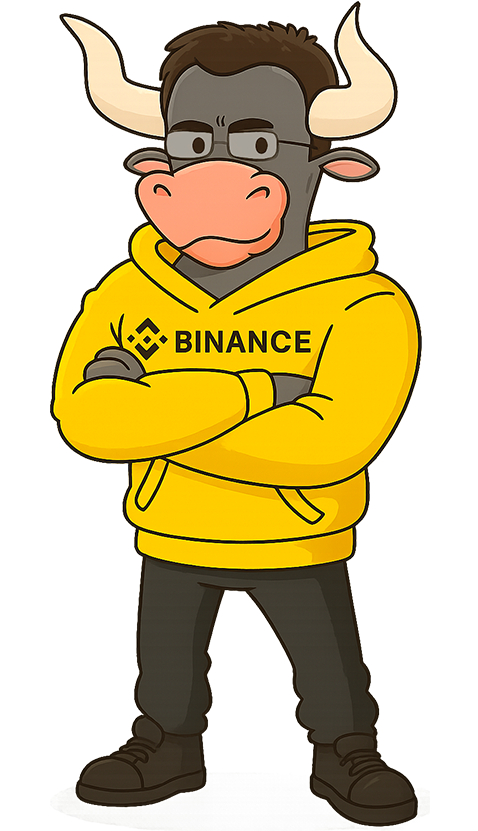
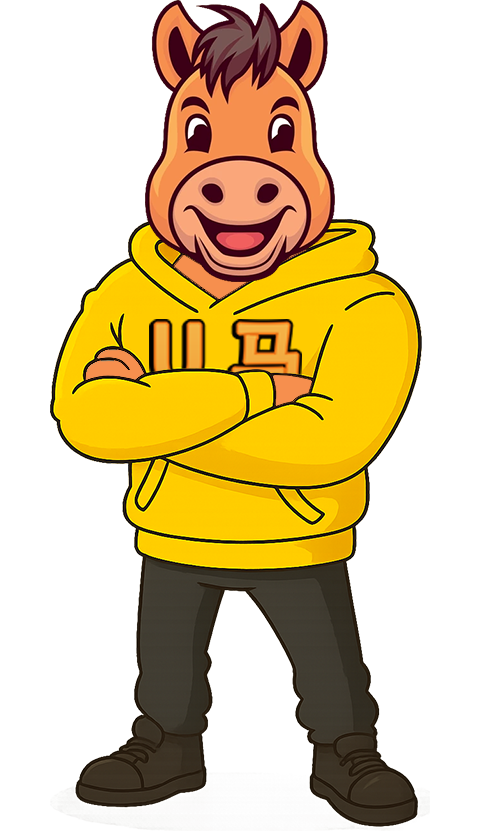
sdf

Changed region(s): [[0.1172, 0.0, 0.8494, 0.5114]]

diff --git a/index.html b/index.html
@@ -1,7 +1,7 @@
 <!DOCTYPE html>
 <html lang="en">
   <head>
-    <title>CZ BULL</title>
+    <title>U马</title>
     <meta charset="UTF-8" />
     <meta name="format-detection" content="telephone=no" />
     <style>
@@ -69,7 +69,7 @@
             <div class="header__actions" data-da=".menu__body, 767.98">
               <div class="header__social">
                 <a
-                  href="https://x.com/CZBullMeme"
+                  href="https://x.com/U马Meme"
                   target="_blank"
                   class="header__social-item"
                 >
@@ -87,7 +87,7 @@
                   </svg>
                 </a>
                 <a
-                  href="https://t.me/CZBullMeme"
+                  href="https://t.me/U马Meme"
                   target="_blank"
                   class="header__social-item"
                 >
@@ -108,7 +108,7 @@
                 </a>
               </div>
               <a
-                href="http://pancakeswap.finance/swap?inputCurrency=BNB&outputCurrency=0x104D9929809EDE3c0C4535ee19492EdAC79FFc26"
+                href="http://pancakeswap.finance/swap?inputCurrency=BNB&outputCurrency=0xTBA"
                 target="_blank"
                 class="header__button"
                 ><span>BUY now<i>!</i><i>!</i><i>!</i></span></a
@@ -127,12 +127,12 @@
           <div class="hero__container">
             <div class="hero__content">
               <h1 class="hero__title">
-                <img src="img/HeroTitle.png" alt="CZ BULL" />
+                <img src="img/HeroTitle.png" alt="U马" />
               </h1>
               <div class="hero__actions">
                 <div class="hero__social">
                   <a
-                    href="https://x.com/CZBullMeme"
+                    href="https://x.com/U马Meme"
                     target="_blank"
                     class="hero__social-item"
                   >
@@ -152,7 +152,7 @@
                     </span>
                   </a>
                   <a
-                    href="https://t.me/CZBullMeme"
+                    href="https://t.me/U马Meme"
                     target="_blank"
                     class="hero__social-item"
                   >
@@ -174,7 +174,7 @@
                     </span>
                   </a>
                   <a
-                    href="https://dexscreener.com/bsc/0x104D9929809EDE3c0C4535ee19492EdAC79FFc26"
+                    href="https://dexscreener.com/bsc/0xTBA"
                     target="_blank"
                     class="hero__social-item"
                   >
@@ -203,7 +203,7 @@
                   </a>
                 </div>
                 <a
-                  href="http://pancakeswap.finance/swap?inputCurrency=BNB&outputCurrency=0x104D9929809EDE3c0C4535ee19492EdAC79FFc26"
+                  href="http://pancakeswap.finance/swap?inputCurrency=BNB&outputCurrency=0xTBA"
                   target="_blank"
                   class="hero__button"
                 >
@@ -219,67 +219,67 @@
         </section>
         <div class="page__line line">
           <div class="line__row">
-            <span>$CZBULL</span>
+            <span>U马</span>
             <img src="img/line.png" alt="Image" />
-            <span>$CZBULL</span>
+            <span>U马</span>
             <img src="img/line.png" alt="Image" />
-            <span>$CZBULL</span>
+            <span>U马</span>
             <img src="img/line.png" alt="Image" />
-            <span>$CZBULL</span>
+            <span>U马</span>
             <img src="img/line.png" alt="Image" />
-            <span>$CZBULL</span>
+            <span>U马</span>
             <img src="img/line.png" alt="Image" />
-            <span>$CZBULL</span>
+            <span>U马</span>
             <img src="img/line.png" alt="Image" />
-            <span>$CZBULL</span>
+            <span>U马</span>
             <img src="img/line.png" alt="Image" />
-            <span>$CZBULL</span>
+            <span>U马</span>
             <img src="img/line.png" alt="Image" />
-            <span>$CZBULL</span>
+            <span>U马</span>
             <img src="img/line.png" alt="Image" />
-            <span>$CZBULL</span>
+            <span>U马</span>
             <img src="img/line.png" alt="Image" />
-            <span>$CZBULL</span>
+            <span>U马</span>
             <img src="img/line.png" alt="Image" />
-            <span>$CZBULL</span>
+            <span>U马</span>
             <img src="img/line.png" alt="Image" />
-            <span>$CZBULL</span>
+            <span>U马</span>
             <img src="img/line.png" alt="Image" />
-            <span>$CZBULL</span>
+            <span>U马</span>
             <img src="img/line.png" alt="Image" />
-            <span>$CZBULL</span>
+            <span>U马</span>
             <img src="img/line.png" alt="Image" />
           </div>
           <div class="line__row">
-            <span>$CZBULL</span>
+            <span>U马</span>
             <img src="img/line.png" alt="Image" />
-            <span>$CZBULL</span>
+            <span>U马</span>
             <img src="img/line.png" alt="Image" />
-            <span>$CZBULL</span>
+            <span>U马</span>
             <img src="img/line.png" alt="Image" />
-            <span>$CZBULL</span>
+            <span>U马</span>
             <img src="img/line.png" alt="Image" />
-            <span>$CZBULL</span>
+            <span>U马</span>
             <img src="img/line.png" alt="Image" />
-            <span>$CZBULL</span>
+            <span>U马</span>
             <img src="img/line.png" alt="Image" />
-            <span>$CZBULL</span>
+            <span>U马</span>
             <img src="img/line.png" alt="Image" />
-            <span>$CZBULL</span>
+            <span>U马</span>
             <img src="img/line.png" alt="Image" />
-            <span>$CZBULL</span>
+            <span>U马</span>
             <img src="img/line.png" alt="Image" />
-            <span>$CZBULL</span>
+            <span>U马</span>
             <img src="img/line.png" alt="Image" />
-            <span>$CZBULL</span>
+            <span>U马</span>
             <img src="img/line.png" alt="Image" />
-            <span>$CZBULL</span>
+            <span>U马</span>
             <img src="img/line.png" alt="Image" />
-            <span>$CZBULL</span>
+            <span>U马</span>
             <img src="img/line.png" alt="Image" />
-            <span>$CZBULL</span>
+            <span>U马</span>
             <img src="img/line.png" alt="Image" />
-            <span>$CZBULL</span>
+            <span>U马</span>
             <img src="img/line.png" alt="Image" />
           </div>
         </div>
@@ -304,7 +304,7 @@
                 <img src="img/AboutTitle.png" alt="ABOUT" />
               </h2>
               <p class="about__text">
-                <span>Welcome to CZ BULL (CZBULL)</span>
+                <span>Welcome to U马 ($U马)</span>
                 <span> the wildest memecoin on Binance Smart Chain (BSC)!</span>
                 <span
                   >We’re a bull on energy drinks, charging through crypto with
@@ -313,7 +313,7 @@
                 <span>Crazy Herd, Fast & Cheap, All Vibes, No Value</span>
               </p>
               <a
-                href="http://pancakeswap.finance/swap?inputCurrency=BNB&outputCurrency=0x104D9929809EDE3c0C4535ee19492EdAC79FFc26"
+                href="http://pancakeswap.finance/swap?inputCurrency=BNB&outputCurrency=0xTBA"
                 class="about__button"
               >
                 <span>BUY now<i>!</i><i>!</i><i>!</i></span>
@@ -419,67 +419,67 @@
         </section>
         <div class="page__line line reverse">
           <div class="line__row">
-            <span>$CZBULL</span>
+            <span>U马</span>
             <img src="img/line.png" alt="Image" />
-            <span>$CZBULL</span>
+            <span>U马</span>
             <img src="img/line.png" alt="Image" />
-            <span>$CZBULL</span>
+            <span>U马</span>
             <img src="img/line.png" alt="Image" />
-            <span>$CZBULL</span>
+            <span>U马</span>
             <img src="img/line.png" alt="Image" />
-            <span>$CZBULL</span>
+            <span>U马</span>
             <img src="img/line.png" alt="Image" />
-            <span>$CZBULL</span>
+            <span>U马</span>
             <img src="img/line.png" alt="Image" />
-            <span>$CZBULL</span>
+            <span>U马</span>
             <img src="img/line.png" alt="Image" />
-            <span>$CZBULL</span>
+            <span>U马</span>
             <img src="img/line.png" alt="Image" />
-            <span>$CZBULL</span>
+            <span>U马</span>
             <img src="img/line.png" alt="Image" />
-            <span>$CZBULL</span>
+            <span>U马</span>
             <img src="img/line.png" alt="Image" />
-            <span>$CZBULL</span>
+            <span>U马</span>
             <img src="img/line.png" alt="Image" />
-            <span>$CZBULL</span>
+            <span>U马</span>
             <img src="img/line.png" alt="Image" />
-            <span>$CZBULL</span>
+            <span>U马</span>
             <img src="img/line.png" alt="Image" />
-            <span>$CZBULL</span>
+            <span>U马</span>
             <img src="img/line.png" alt="Image" />
-            <span>$CZBULL</span>
+            <span>U马</span>
             <img src="img/line.png" alt="Image" />
           </div>
           <div class="line__row">
-            <span>$CZBULL</span>
+            <span>U马</span>
             <img src="img/line.png" alt="Image" />
-            <span>$CZBULL</span>
+            <span>U马</span>
             <img src="img/line.png" alt="Image" />
-            <span>$CZBULL</span>
+            <span>U马</span>
             <img src="img/line.png" alt="Image" />
-            <span>$CZBULL</span>
+            <span>U马</span>
             <img src="img/line.png" alt="Image" />
-            <span>$CZBULL</span>
+            <span>U马</span>
             <img src="img/line.png" alt="Image" />
-            <span>$CZBULL</span>
+            <span>U马</span>
             <img src="img/line.png" alt="Image" />
-            <span>$CZBULL</span>
+            <span>U马</span>
             <img src="img/line.png" alt="Image" />
-            <span>$CZBULL</span>
+            <span>U马</span>
             <img src="img/line.png" alt="Image" />
-            <span>$CZBULL</span>
+            <span>U马</span>
             <img src="img/line.png" alt="Image" />
-            <span>$CZBULL</span>
+            <span>U马</span>
             <img src="img/line.png" alt="Image" />
-            <span>$CZBULL</span>
+            <span>U马</span>
             <img src="img/line.png" alt="Image" />
-            <span>$CZBULL</span>
+            <span>U马</span>
             <img src="img/line.png" alt="Image" />
-            <span>$CZBULL</span>
+            <span>U马</span>
             <img src="img/line.png" alt="Image" />
-            <span>$CZBULL</span>
+            <span>U马</span>
             <img src="img/line.png" alt="Image" />
-            <span>$CZBULL</span>
+            <span>U马</span>
             <img src="img/line.png" alt="Image" />
           </div>
         </div>
@@ -547,7 +547,7 @@
             </h2>
             <div class="join__actions">
               <a
-                href="http://pancakeswap.finance/swap?inputCurrency=BNB&outputCurrency=0x104D9929809EDE3c0C4535ee19492EdAC79FFc26"
+                href="http://pancakeswap.finance/swap?inputCurrency=BNB&outputCurrency=0xTBA"
                 target="_blank"
                 class="join__button"
               >
@@ -555,7 +555,7 @@
               </a>
               <div class="join__social">
                 <a
-                  href="https://x.com/CZBullMeme"
+                  href="https://x.com/U马Meme"
                   target="_blank"
                   class="join__social-item"
                 >
@@ -587,7 +587,7 @@
                   </span>
                 </a>
                 <a
-                  href="https://t.me/CZBullMeme"
+                  href="https://t.me/U马Meme"
                   target="_blank"
                   class="join__social-item"
                 >
@@ -621,7 +621,7 @@
                   </span>
                 </a>
                 <a
-                  href="https://www.dextools.io/app/en/bnb/pair-explorer/0x104D9929809EDE3c0C4535ee19492EdAC79FFc26"
+                  href="https://www.dextools.io/app/en/bnb/pair-explorer/0xTBA"
                   target="_blank"
                   class="join__social-item"
                 >
@@ -655,7 +655,7 @@
                   </span>
                 </a>
                 <a
-                  href="https://dexscreener.com/bsc/0x104D9929809EDE3c0C4535ee19492EdAC79FFc26"
+                  href="https://dexscreener.com/bsc/0xTBA"
                   target="_blank"
                   class="join__social-item"
                 >
